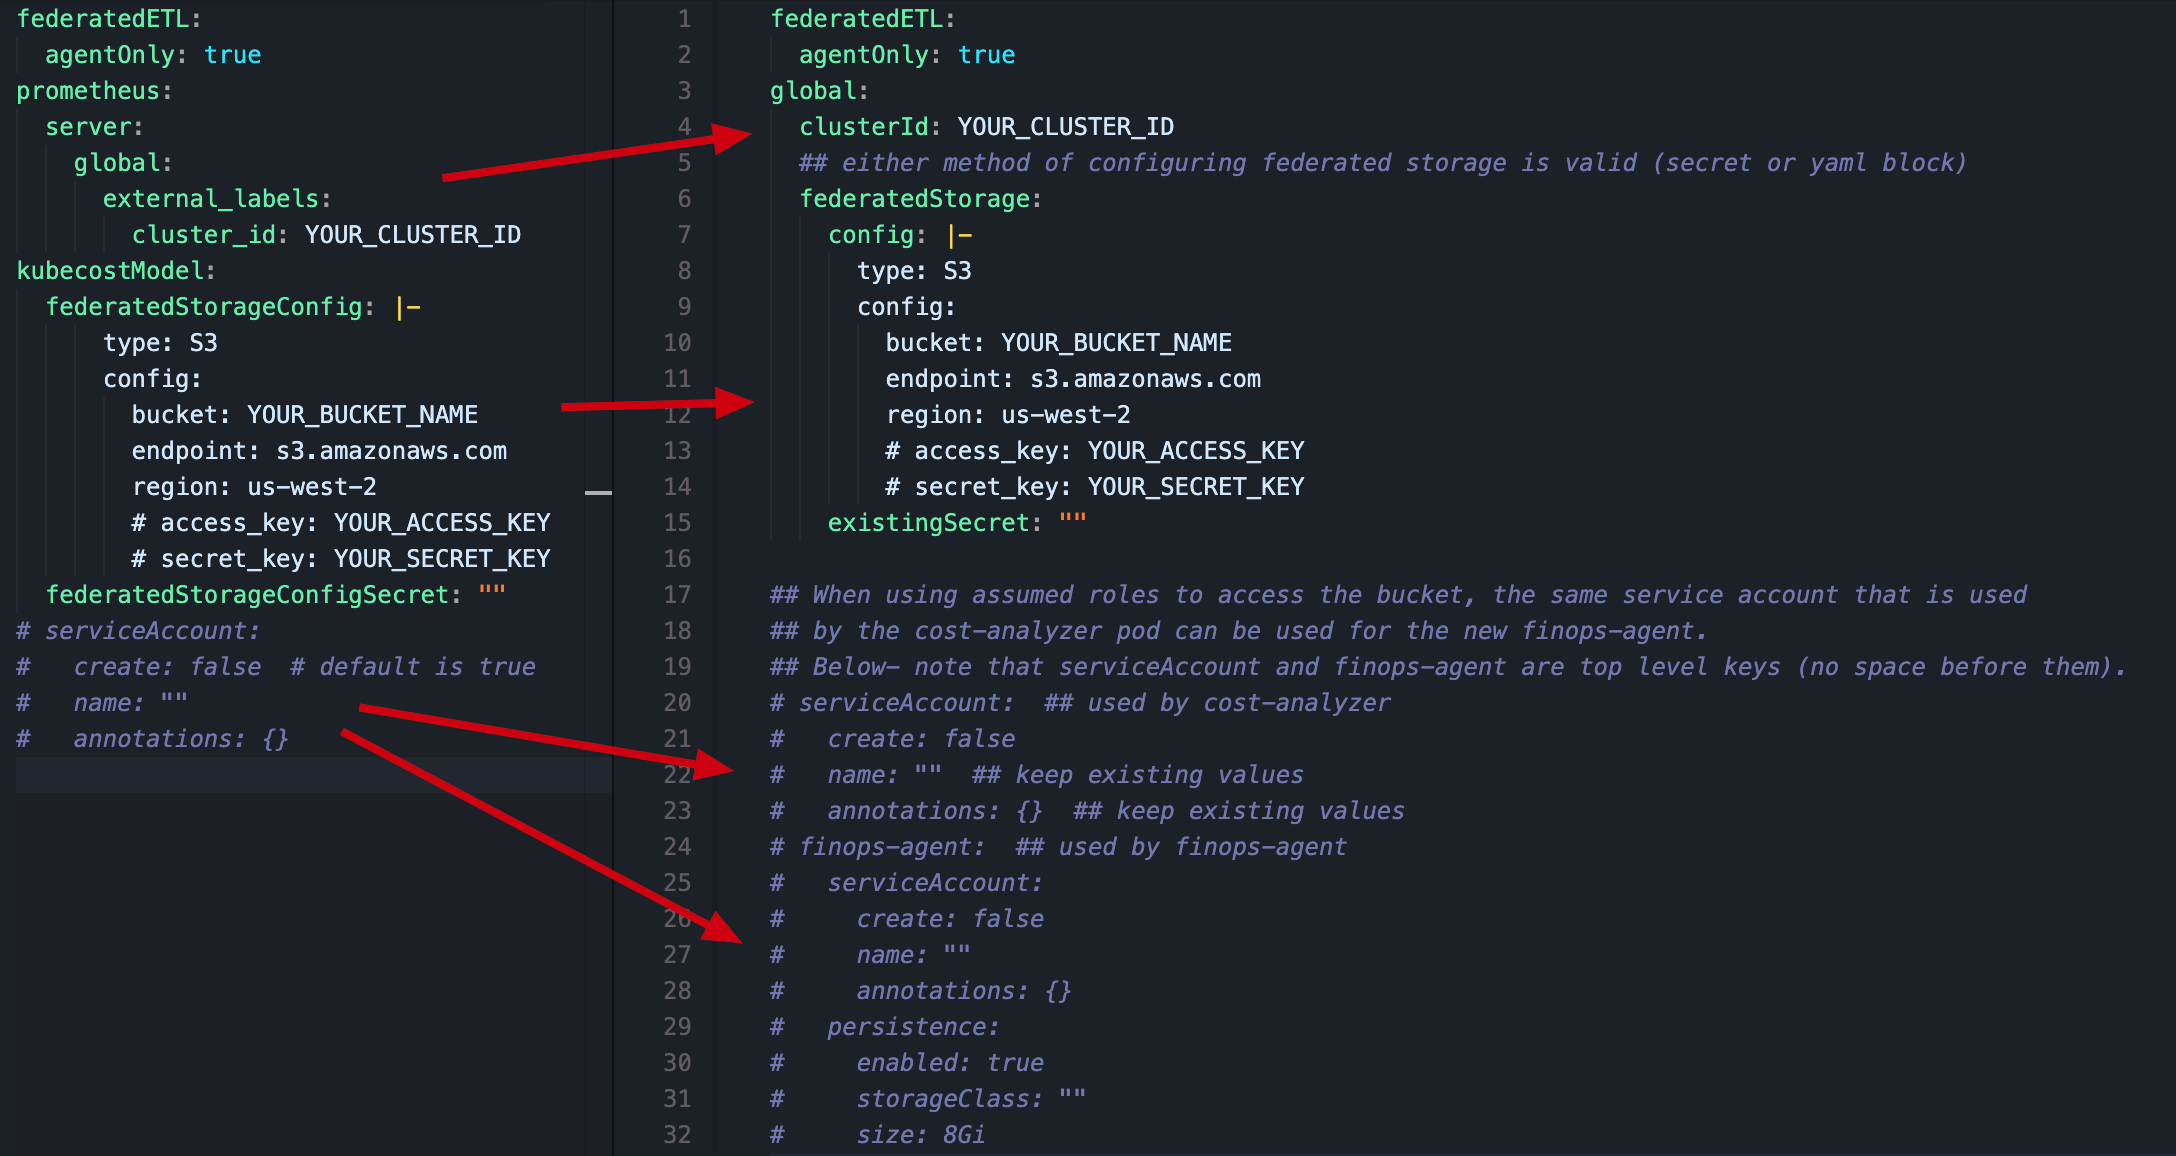
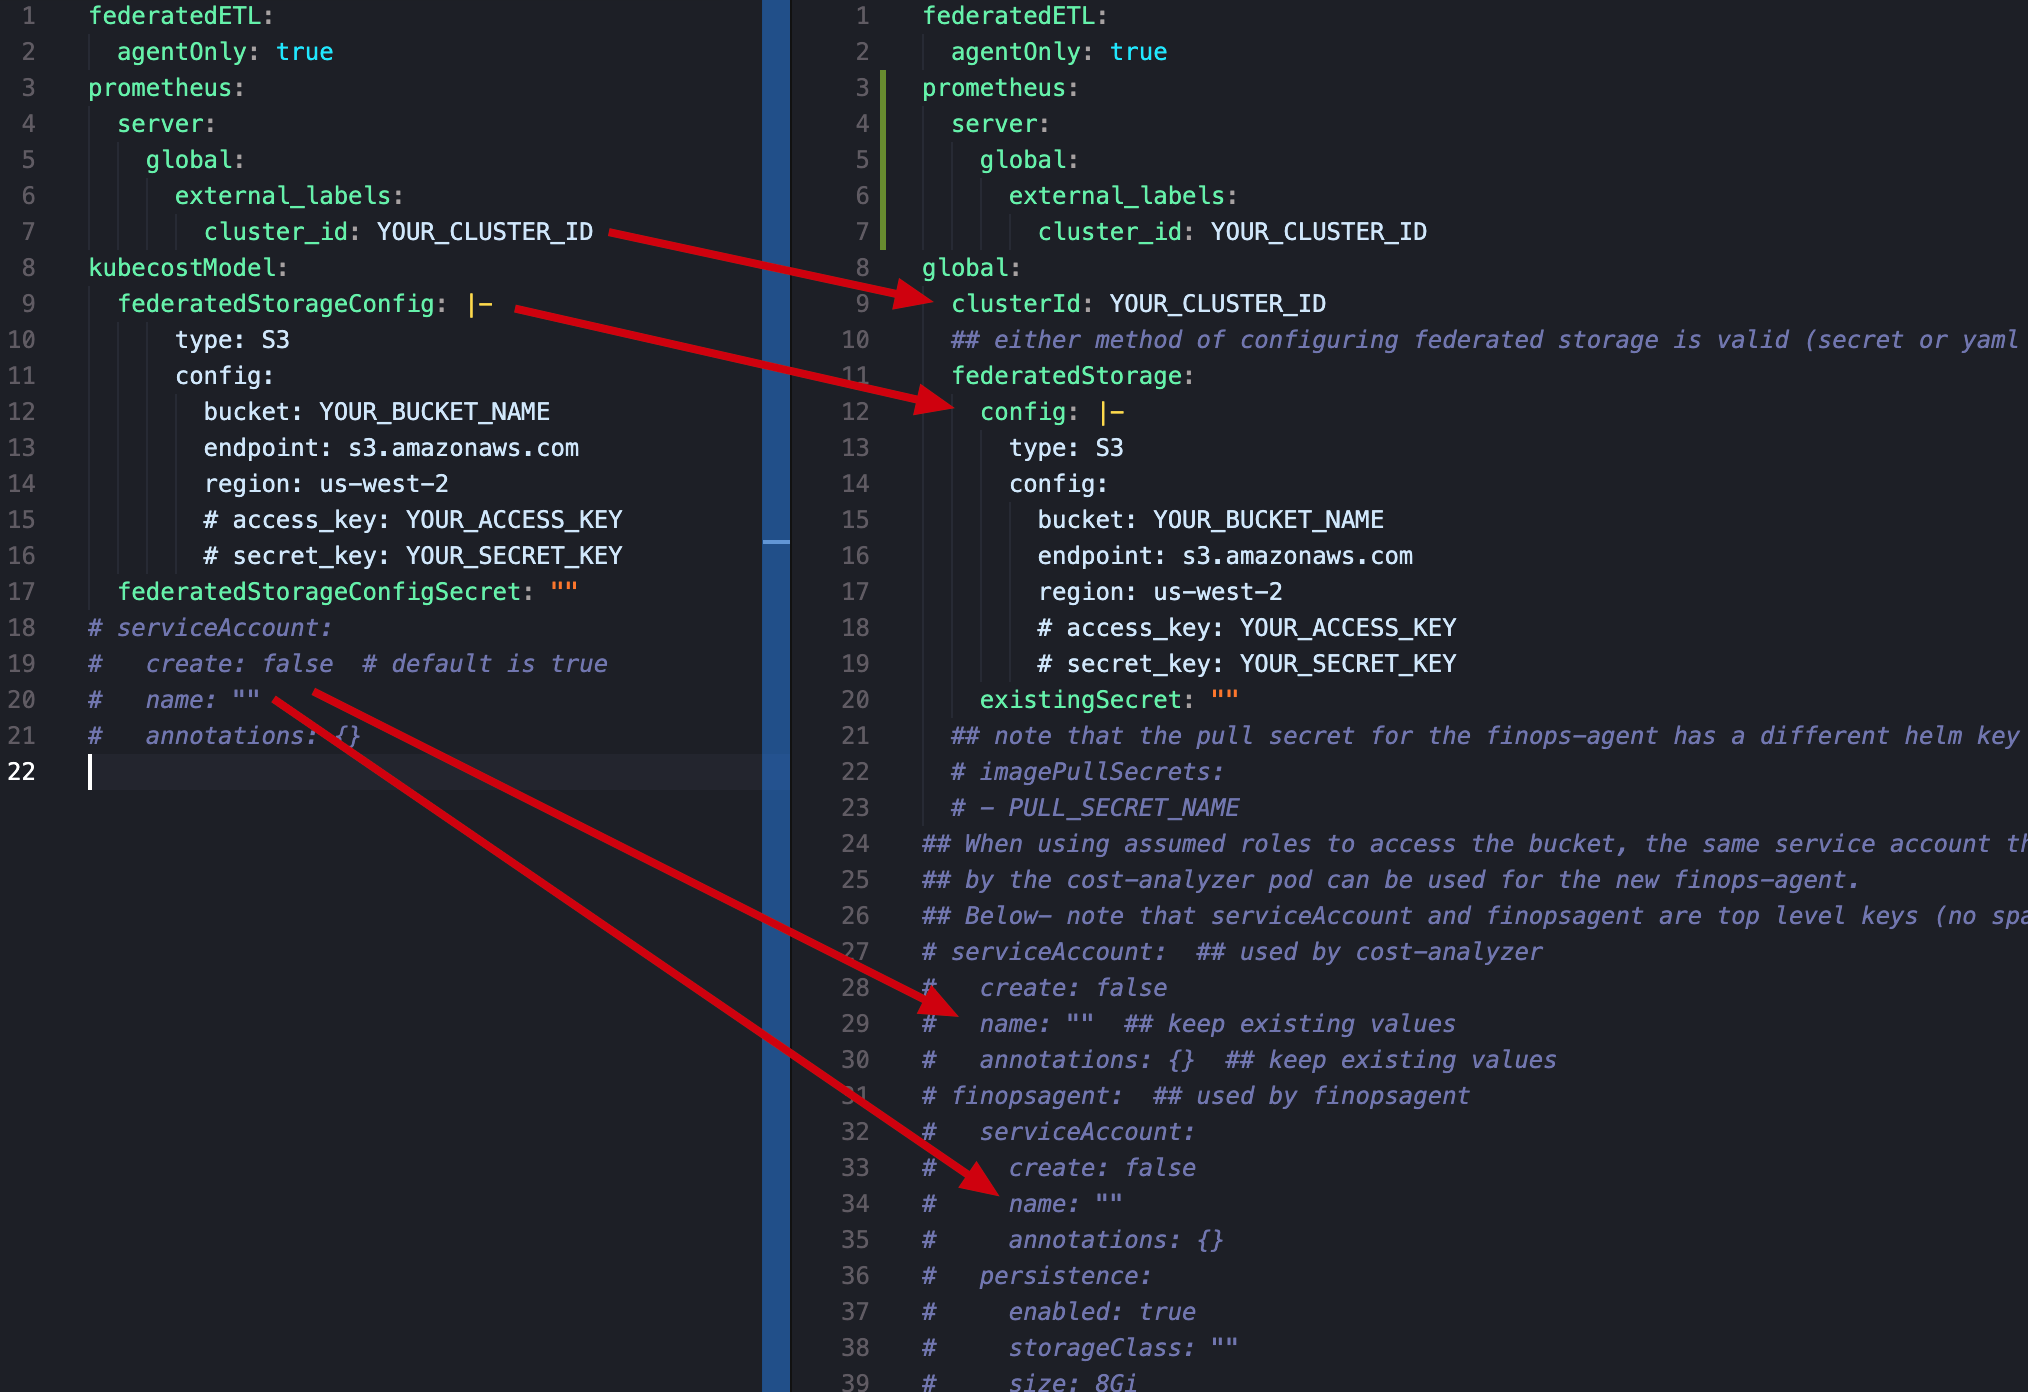
fix clusterId

diff --git a/examples/README.md b/examples/README.md
@@ -14,7 +14,7 @@ There are two values that will need to be modified before upgrading to 2.9, whic
 
 > The example here shows the minimum required values, you should keep all of the other values in your current values file.
 
-1. Move the old `prometheus.server.global.external_labels.cluster_id` to `global.clusterId`
+1. Copy the value of `prometheus.server.global.external_labels.cluster_id` to `global.clusterId` these must match.
 2. Move the federated storage configuration from the `kubecostModel` section to the `global` section.
 3. The finops agent will need to write and read access to the bucket. If your existing Kubecost deployment uses an assumed role (opposed to an IAM user/key), you will need to configure the finops-agent to use the existing service account. In the values provided, uncomment the `serviceAccount` and `finopsagent` sections and set the `name` to the name of the service account used by the cost-analyzer pod.
 ![upgrade-values-2.9](settings-migration.png)
